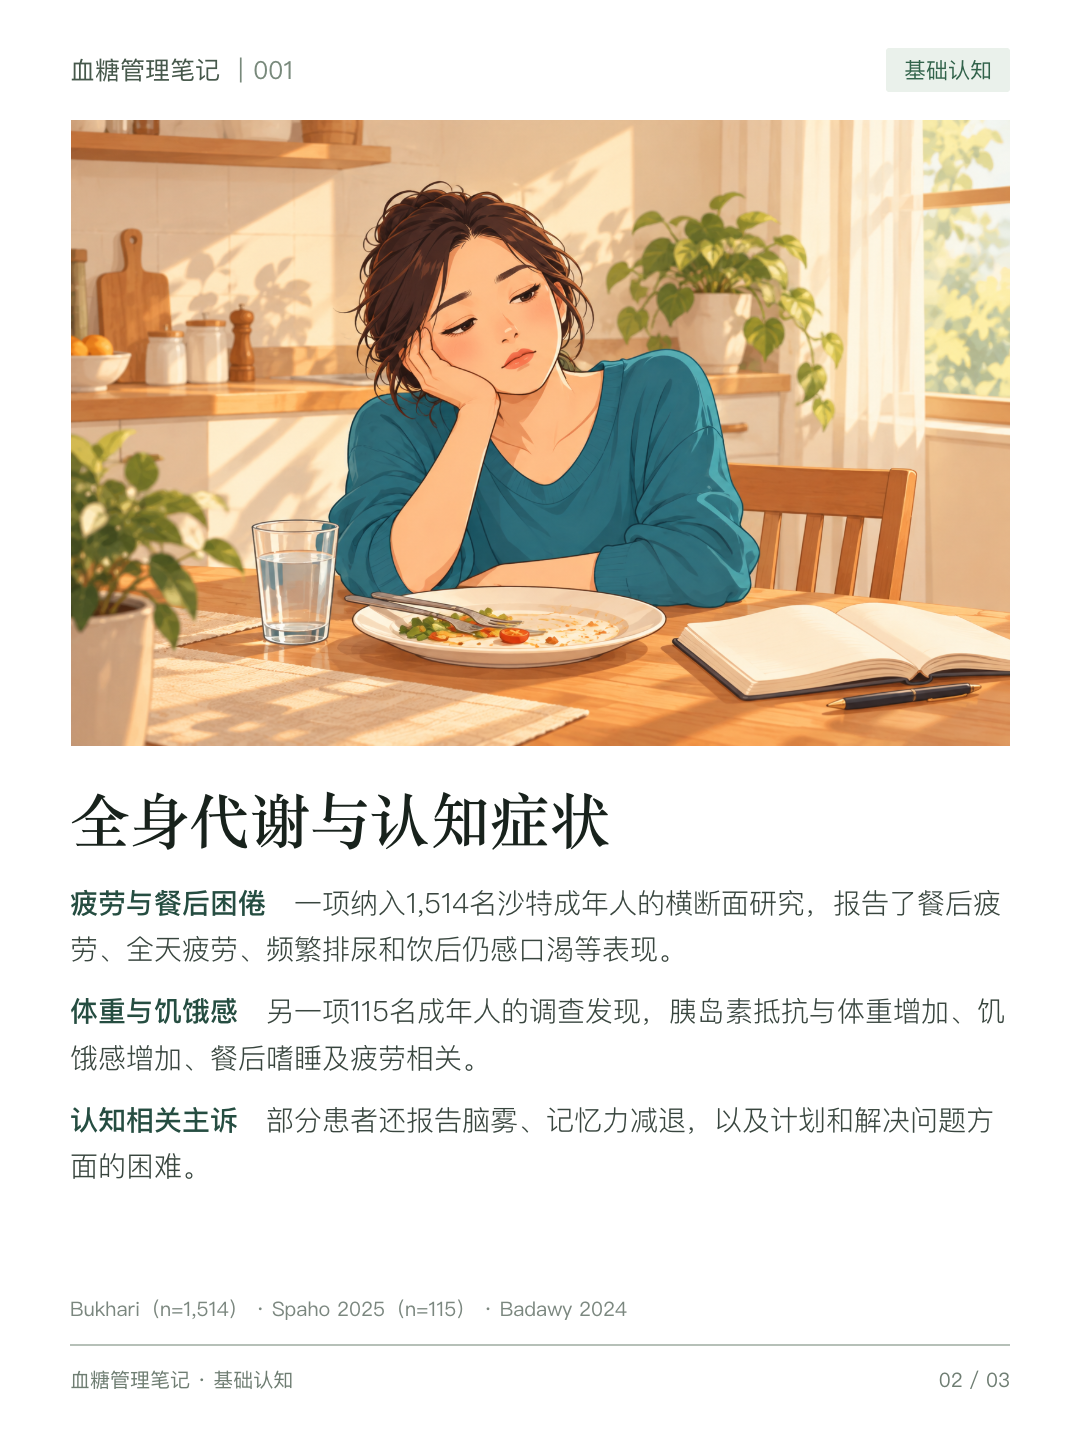
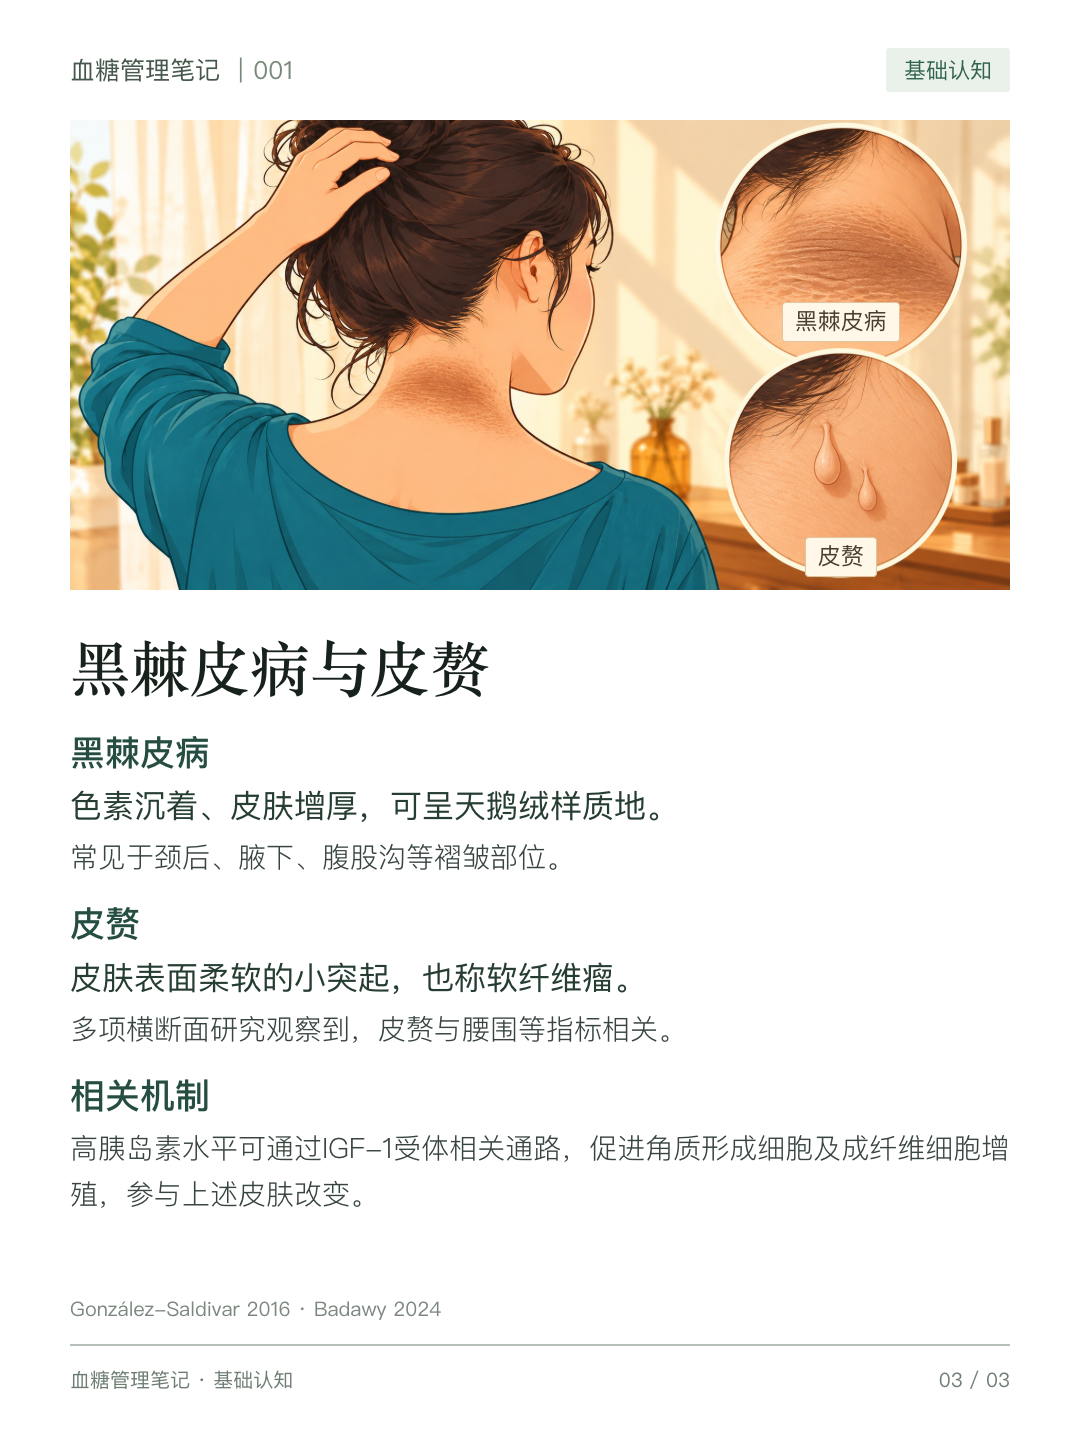
Reduce interior art and emphasize symptoms with labeled detail insets

diff --git a/references/covers.md b/references/covers.md
@@ -42,10 +42,10 @@
 
 ## 核心内容页：大幅叙事插画
 
-默认上半幅插画、下半幅文字。图像是一个完整生活场景：餐后困倦发生在午餐桌边，皮肤表现发生在梳妆镜前，睡眠主题发生在卧室。避免每个论点配一个小图标，或把四个圆形小场景拼成内页。
+默认上方插画约占整页三分之一，下方留出较充分的文字区域。图像是一个完整生活场景：餐后困倦发生在午餐桌边，皮肤表现发生在梳妆镜前，睡眠主题发生在卧室。避免每个论点配一个小图标。需要辨识具体形态时，可在主图内加1–2个局部放大图，例如黑棘皮病与皮赘；放大图显示细节，名称用可编辑文字标注。
 
 延续封面画风与人物辨识度：成年人物、精细轮廓、二维动画色块、柔和明暗、暖奶油色和木色环境、少量青绿色呼应。人物与场景服务本篇主题，不要求所有文章都是同一个女性或同一种色调。统一视觉语言与有变化的构图共同建立系列辨识度。
 
-建议示范比例：1080×1440页面，插画940×626，顶部留栏目位置；图下安排主题标题和2–3段正文。正文28px左右、字重300–400、深灰文字；重点词500，避免满段加粗。细字重不能靠低对比灰色或持续缩小字号实现。
+建议示范比例：1080×1440页面，插画940×470，顶部留栏目位置；图下安排主题标题和2–3段正文。症状名称35px，具体表现32px，研究解释28px、字重300–400、深灰文字；重点词500，避免满段加粗。细字重不能靠低对比灰色或持续缩小字号实现。
 
 以 [内页参考](../examples/interior-reference.png) 为版式样本。机制信息多时可单独用大幅可编辑机制图，证据页保留清晰表格；不要求每页都套同一布局。场景插画不是诊断标准图，具体形态仍由文字准确解释。

diff --git a/SKILL.md b/SKILL.md
@@ -34,7 +34,7 @@ description: Create and revise evidence-based Xiaohongshu carousel notes from pa
 - 内容以原材料的有效信息为主：对象、样本量、干预/观察、结果、机制和局限。删除反复出现的“不代表／不等于”式提醒；把必要边界写在相关结论中或末页一处。保留与证据相称的“相关”“可能”，不为传播改成确定因果。
 - 读者页面不放内部制作说明，例如“以上按原文献整理标签列示，完整书目信息见原文献库”。内部来源状态写入 evidence.json，页面直接显示对应引用。信息量靠研究细节和机制解释增加，避免只列名词。
 - 四栏目只需在封面右上角标注。不同文章用不同主题场景插画；颜色是辅助标识，不能用仅换颜色的同一针筒/设备图代替主题差异。
-- 核心讲解页默认采用上图下文：一幅完整生活场景插画占上半页，下方为主题标题及2–3段详细论述。沿用封面动画画风，正文用较细字重；证据总览页仍以表格为主。避免小图标卡片铺满全页。
+- 核心讲解页默认采用上图下文：主图约占整页三分之一，下方为主题标题及2–3段详细论述；症状名称和具体形态用更大字号，研究细节保持细字重。沿用封面动画画风，正文用较细字重；证据总览页仍以表格为主。避免小图标卡片铺满全页；需要辨识细节时，可在主图内加入1–2个有名称的局部放大图。
 - 封面插画内部无字。标题、标签与副标题用可编辑排版生成，避免图像模型把长中文画坏。
 - 3:4、1080×1440为默认输出，页数按内容调整，常用6–9页；8页是实例，不是硬性规则。
 - 引用能追溯到具体结论；不补造题名、DOI、年份或证据等级。原创定性分级需记录方法；引用外部分级需标注出处。

diff --git a/references/production.md b/references/production.md
@@ -67,6 +67,6 @@ node scripts/render.cjs --input examples/post.example.json --out /tmp/xhs-previe
 
 ## illustrated 页面
 
-核心内容页优先用 illustrated：image 为项目内插画路径，image_alt 说明场景，title 为图下主题名，items 为2–3段正文，每项 title 是段首重点词、text 为具体论述。sources 放简洁引用；source_ids 也可逐段显示。插画建议3:2无字横图。样稿配图和封面使用同一画风，正文不再拆成小图标卡片。
+核心内容页优先用 illustrated：image 为项目内插画路径，image_alt 说明场景，title 为图下主题名，items 为2–3段正文，每项 title 是段首重点词、text 为具体论述。sources 放简洁引用；source_ids 也可逐段显示。紧凑内页使用 `layout: "compact"`，插画建议2:1无字横图。每项 `title` 作为较大的独立小标题，`lead` 放具体症状（32px），`text` 放研究与机制（28px）。需要图内名称时，`image_labels` 为 `{text,x,y}` 数组，坐标是图内0–100百分比；先看图再定坐标，避免遮挡关键形态。样稿配图和封面使用同一画风，正文不再拆成小图标卡片。
 
 这类页面的图与文字可分别替换；内容超高时拆页或缩短重复句。自动检查覆盖图下正文，仍需视觉检查图像和细字重的手机可读性。
